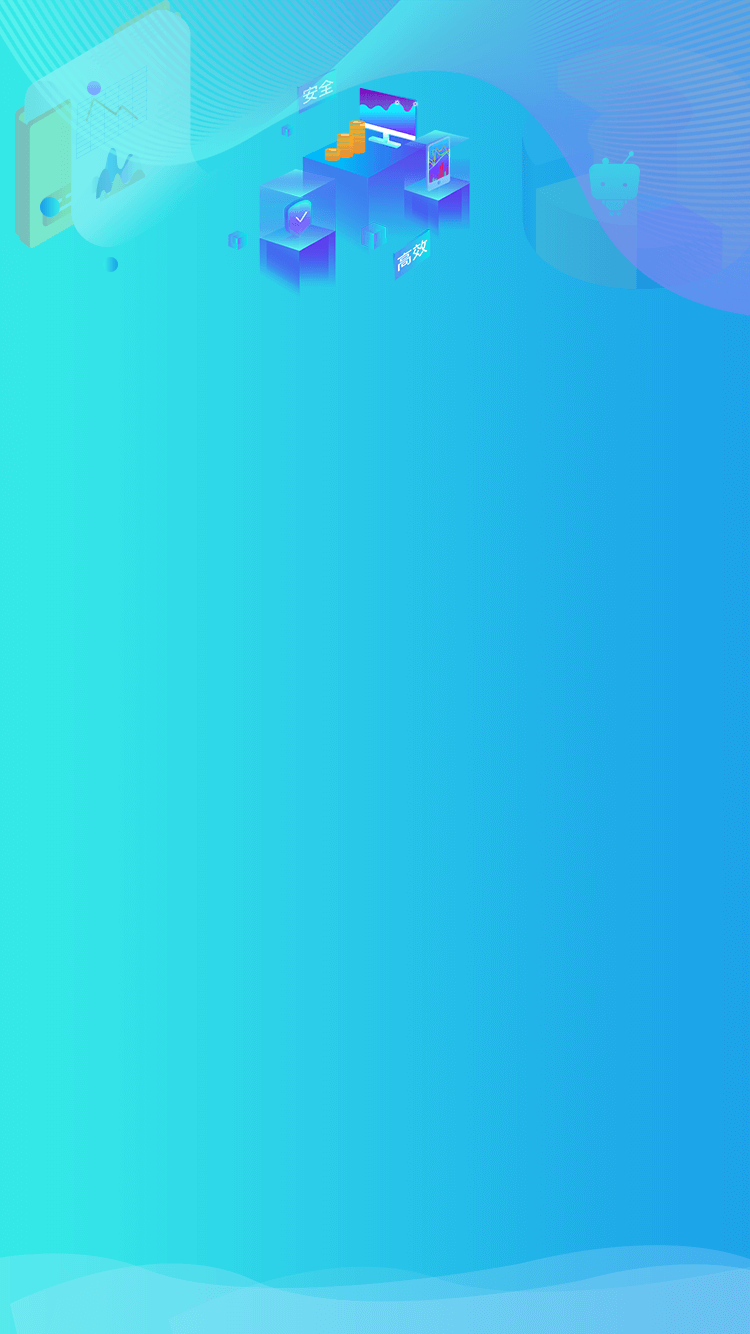
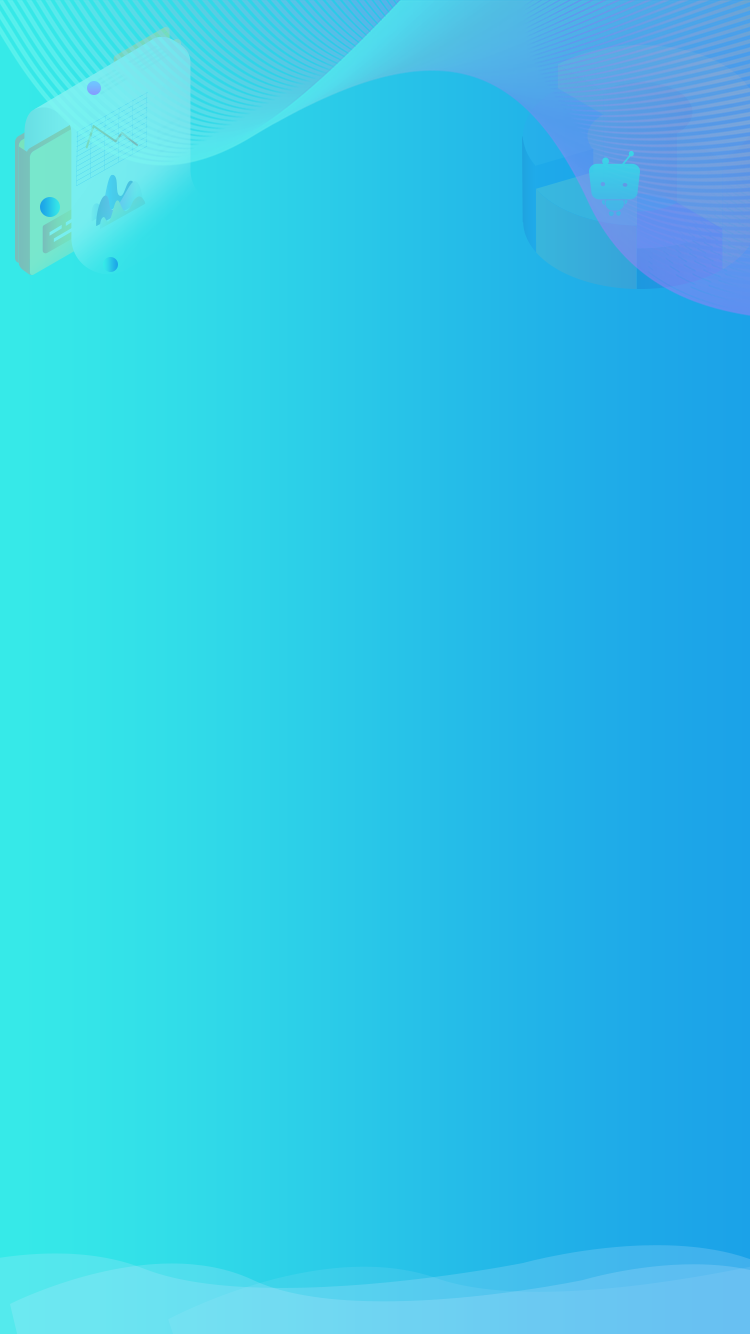
账单

Changed region(s): [[0.3067, 0.0615, 0.644, 0.2151], [0.0, 0.0, 0.276, 0.1229], [0.0, 0.0922, 0.184, 0.2151]]

diff --git a/src/views/login.vue b/src/views/login.vue
@@ -12,27 +12,27 @@
       <div class="form-bg-l">
         <view-box class="use-bg"></view-box>
         <div class="form-bg">
-          <flexbox class="item-i">
-            <flexbox-item class="form-i">
-              <x-input class="phone-i" placeholder="请输入手机号码" v-model="phone" :max="maxclength"></x-input>
+          <div class="item-i">
+            <div class="form-i">
+              <input class="phone-i" placeholder="请输入手机号码" v-model="phone" :max="maxclength"></input>
               <p class="icon-phone"></p>
-            </flexbox-item>
-          </flexbox>
-          <flexbox class="item-i">
-            <flexbox-item class="form-i form-code">
+            </div>
+          </div>
+          <div class="item-i">
+            <div class="form-i form-code">
               <x-input class="phone-i" placeholder="请输入手机验证码" v-model="password" :max="maxplength"></x-input>
               <!-- <p class="icon-pass"></p> -->
-            </flexbox-item>
-            <flexbox-item
+            </div>
+            <div
               class="form-i form-i-n"
               :class="canClick === true? '': 'send-color'"
-              @click.native="sendCode"
+              @click="sendCode"
             >
               <!-- <x-input class="phone-i" placeholder="请输入登入密码" v-model="password" :max="maxplength"></x-input>
               <p class="icon-pass"></p>-->
               {{content}}
-            </flexbox-item>
-          </flexbox>
+            </div>
+          </div>
           <!-- <div class="forget-p">忘记密码？</div> -->
         </div>
         <div class="login-s">
@@ -235,14 +235,17 @@ export default {
     padding: 5vw;
     font-size: 0.8rem;
     background: #fff;
+    margin-top: 30px;
   }
 
   .form-bg-l {
+    // margin: 60vw auto;
     width: 88%;
-    position: fixed;
+    position: absolute;
     left: 50%;
     margin-left: -44%;
-    top: 24vh;
+    top: 12vh;
+    z-index: 100;
   }
 
   .form-i {
@@ -270,10 +273,13 @@ export default {
   .phone-i {
     width: 90%;
     font-size: 0.8rem;
+    padding: 10px;
+    border: 0;
   }
 
   .item-i {
     margin-bottom: 6vw;
+    display: flex;
   }
 
   .icon-pass {
@@ -338,7 +344,7 @@ export default {
     text-align: center;
     font-size: 1rem;
     position: fixed;
-    bottom: 10vw;
+    bottom: 20px;
   }
 }
 </style>
